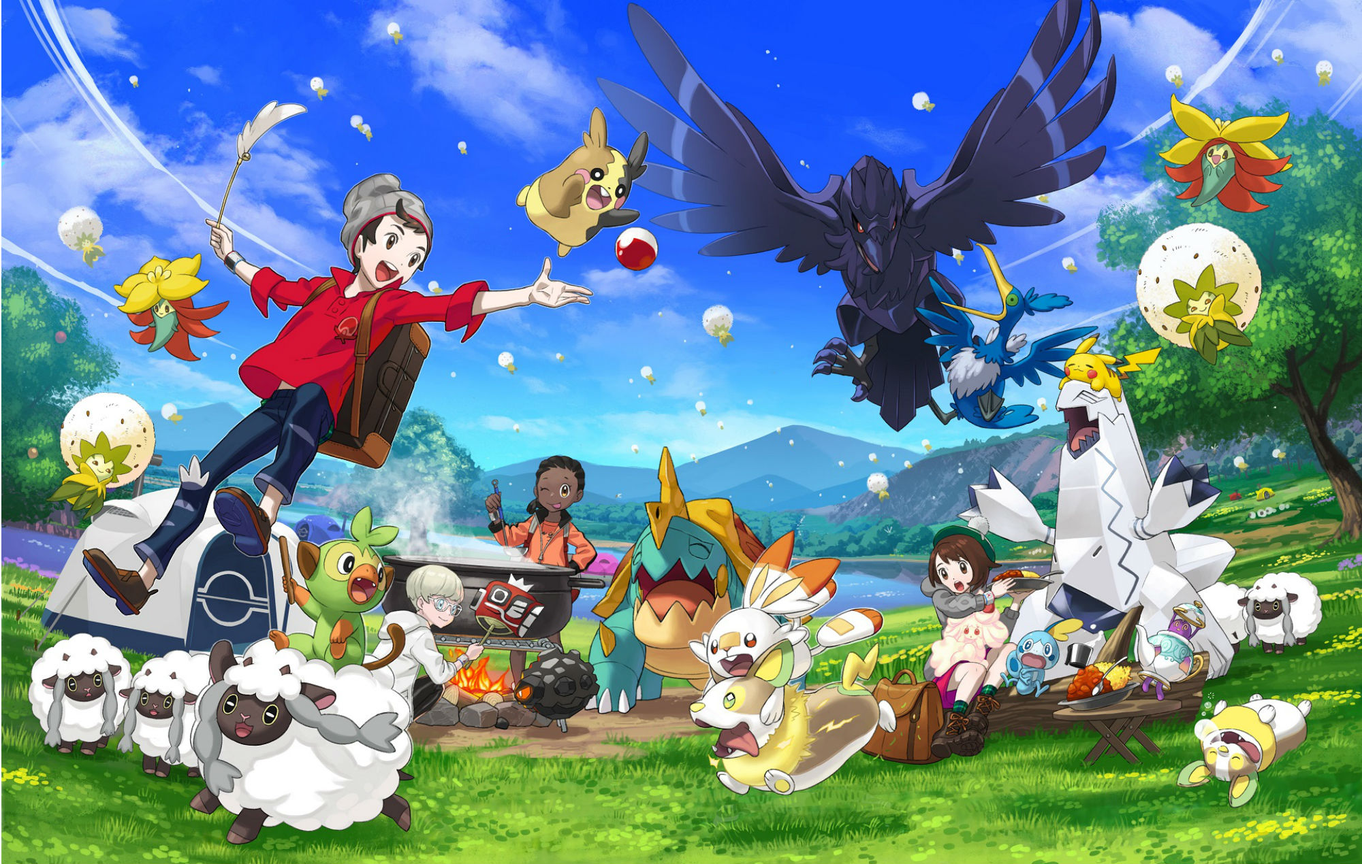
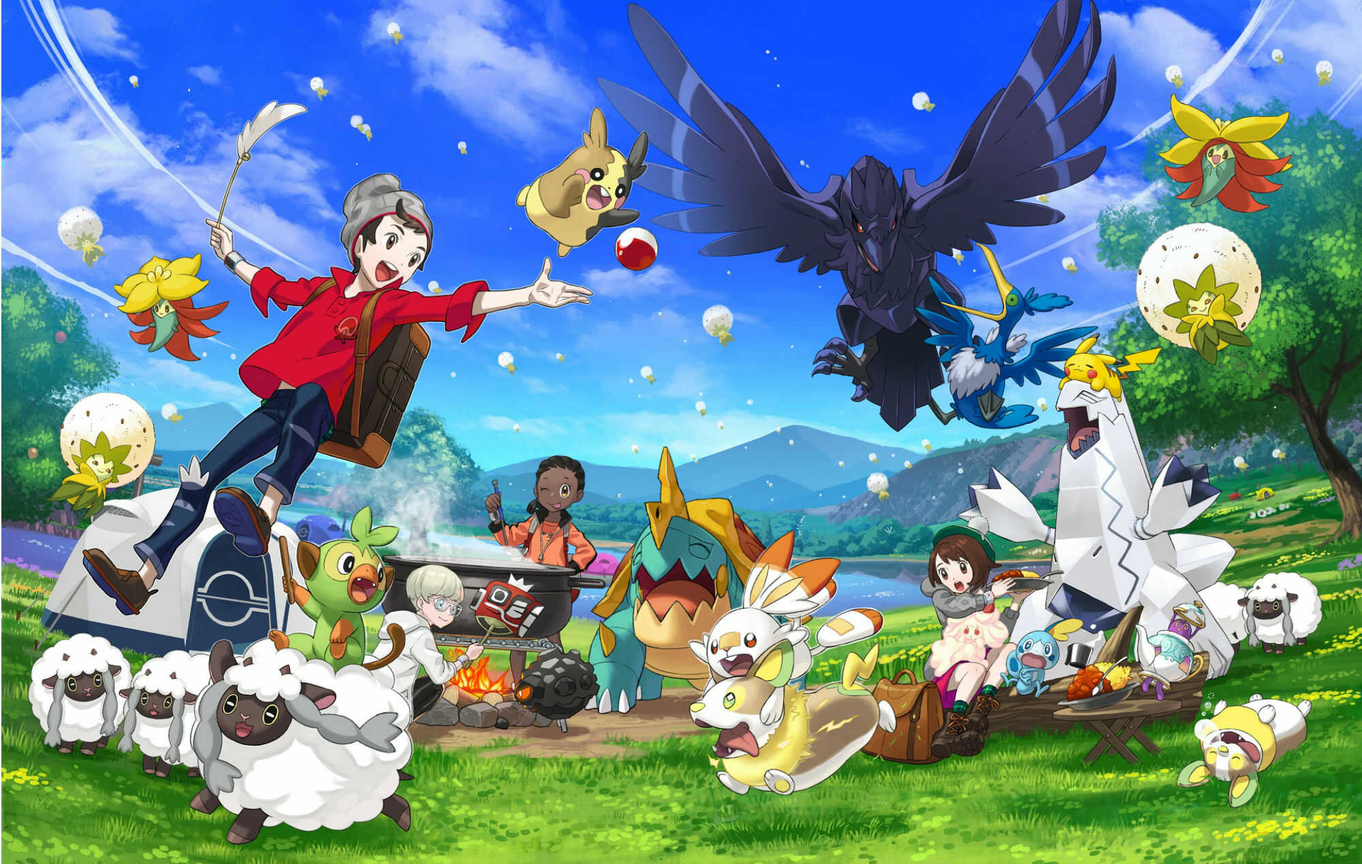
fix: optimized image

Changed region(s): [[0.744, 0.737, 0.775, 0.7677]]

diff --git a/js/main-data.js b/js/main-data.js
@@ -10,7 +10,7 @@ $(document).ready(() => {
         for (let i = start; i < end; i++) {
             await fetch(end_point_pkm.concat(`${i}`))
                 .then((resp) => resp.json())
-                .then((data) => {
+                .then((data) => { 
                     k = ktIDMore(i, start + 11);
                     let tamid = data.id;
                     if (data.id < 10) {
@@ -31,7 +31,7 @@ $(document).ready(() => {
                                             <span>#${tamid}</span>
                                             <span>${data.name.toUpperCase()}</span>
                                             <div class="d-flex justify-content-center">
-                                                <a href="#" class="btn one-item btn-${data.types[0].type.name}">${data.types[0].type.name.toUpperCase()}</a>
+                                                <a class="btn one-item btn-${data.types[0].type.name}">${data.types[0].type.name.toUpperCase()}</a>
                                             </div>
                                             <span>Abilities: <p>${data.abilities[0].ability.name}</p> </span>
                                         </div>
@@ -51,7 +51,7 @@ $(document).ready(() => {
                                             <span>#${tamid}</span>
                                             <span>${data.name.toUpperCase()}</span>
                                             <div class="d-flex justify-content-center">
-                                                <a href="#" class="btn one-item btn-${data.types[0].type.name}">${data.types[0].type.name.toUpperCase()}</a>
+                                                <a class="btn one-item btn-${data.types[0].type.name}">${data.types[0].type.name.toUpperCase()}</a>
                                             </div>
                                             <span>Abilities: <p>${data.abilities[0].ability.name} / ${data.abilities[1].ability.name}</p> </span>
                                         </div>
@@ -73,8 +73,8 @@ $(document).ready(() => {
                                             <span>#${tamid}</span>
                                             <span>${data.name.toUpperCase()}</span>
                                             <div class="d-flex justify-content-around">
-                                                <a href="#" class="btn two-item btn-${data.types[0].type.name}">${data.types[0].type.name.toUpperCase()}</a>
-                                                <a href="#" class="btn two-item btn-${data.types[1].type.name}">${data.types[1].type.name.toUpperCase()}</a>
+                                                <a class="btn two-item btn-${data.types[0].type.name}">${data.types[0].type.name.toUpperCase()}</a>
+                                                <a class="btn two-item btn-${data.types[1].type.name}">${data.types[1].type.name.toUpperCase()}</a>
                                             </div>
                                             <span>Abilities: <p>${data.abilities[0].ability.name}</p> </span>
                                         </div>
@@ -94,8 +94,8 @@ $(document).ready(() => {
                                             <span>#${tamid}</span>
                                             <span>${data.name.toUpperCase()}</span>
                                             <div class="d-flex justify-content-around">
-                                                <a href="#" class="btn two-item btn-${data.types[0].type.name}">${data.types[0].type.name.toUpperCase()}</a>
-                                                <a href="#" class="btn two-item btn-${data.types[1].type.name}">${data.types[1].type.name.toUpperCase()}</a>
+                                                <a class="btn two-item btn-${data.types[0].type.name}">${data.types[0].type.name.toUpperCase()}</a>
+                                                <a class="btn two-item btn-${data.types[1].type.name}">${data.types[1].type.name.toUpperCase()}</a>
                                             </div>
                                             <span>Abilities: <p>${data.abilities[0].ability.name} / ${data.abilities[1].ability.name}</p> </span>
                                         </div>
@@ -313,7 +313,7 @@ $(document).ready(() => {
                         else {
                             for (let n = 0; n < data.types.length; n++) {
                                 count = countType(data.types[n].type.name);
-                                k = ktIDMore(count, 8);
+                                k = ktIDMore(count, 12);
                                 if (data.abilities.length === 1) {
                                     $(`#${data.types[n].type.name.toUpperCase()}>.container>.row`).append(`
                                     <div class="col-lg-3 col-md-4 col-sm-6 col-6" id="more-${k}">

diff --git a/js/main-index.js b/js/main-index.js
@@ -79,7 +79,7 @@ $(document).ready(() => {
                                                 <span>#${tamid}</span>
                                                 <span>${data.name.toUpperCase()}</span>
                                                 <div class="d-flex">
-                                                    <a href="#" class="btn one-item btn-${data.types[0].type.name}">${data.types[0].type.name.toUpperCase()}</a>
+                                                    <a class="btn one-item btn-${data.types[0].type.name}">${data.types[0].type.name.toUpperCase()}</a>
                                                 </div>
                                                 <span>Abilities: <p>${data.abilities[0].ability.name}</p> </span>
                                             </div>
@@ -96,7 +96,7 @@ $(document).ready(() => {
                                                 <span>#${tamid}</span>
                                                 <span>${data.name.toUpperCase()}</span>
                                                 <div class="d-flex">
-                                                    <a href="#" class="btn one-item btn-${data.types[0].type.name}">${data.types[0].type.name.toUpperCase()}</a>
+                                                    <a class="btn one-item btn-${data.types[0].type.name}">${data.types[0].type.name.toUpperCase()}</a>
                                                 </div>
                                                 <span>Abilities: <p>${data.abilities[0].ability.name} / ${data.abilities[1].ability.name}</p> </span>
                                             </div>
@@ -116,8 +116,8 @@ $(document).ready(() => {
                                                 <span>#${tamid}</span>
                                                 <span>${data.name.toUpperCase()}</span>
                                                 <div class="d-flex">
-                                                    <a href="#" class="btn two-item btn-${data.types[0].type.name}">${data.types[0].type.name.toUpperCase()}</a>
-                                                    <a href="#" class="btn two-item btn-${data.types[1].type.name}">${data.types[1].type.name.toUpperCase()}</a>
+                                                    <a class="btn two-item btn-${data.types[0].type.name}">${data.types[0].type.name.toUpperCase()}</a>
+                                                    <a class="btn two-item btn-${data.types[1].type.name}">${data.types[1].type.name.toUpperCase()}</a>
                                                 </div>
                                                 <span>Abilities: <p>${data.abilities[0].ability.name}</p> </span>
                                             </div>
@@ -134,8 +134,8 @@ $(document).ready(() => {
                                                 <span>#${tamid}</span>
                                                 <span>${data.name.toUpperCase()}</span>
                                                 <div class="d-flex">
-                                                    <a href="#" class="btn two-item btn-${data.types[0].type.name}">${data.types[0].type.name.toUpperCase()}</a>
-                                                    <a href="#" class="btn two-item btn-${data.types[1].type.name}">${data.types[1].type.name.toUpperCase()}</a>
+                                                    <a class="btn two-item btn-${data.types[0].type.name}">${data.types[0].type.name.toUpperCase()}</a>
+                                                    <a class="btn two-item btn-${data.types[1].type.name}">${data.types[1].type.name.toUpperCase()}</a>
                                                 </div>
                                                 <span>Abilities: <p>${data.abilities[0].ability.name} / ${data.abilities[1].ability.name}</p> </span>
                                             </div>

diff --git a/data.html b/data.html
@@ -102,12 +102,15 @@
 
         <!-- MAIN -->
         <main>
-            <h2>POKEDEX</h2>
             <!-- Pokedex -->
             <div class="container pkdex">
                 <div class="d-flex justify-content-around">
-                    <h2 id="top">POKEDEX</h2>
+                    <a href="#"><h2 id="top">POKEDEX</h2></a>
+                    <a href="#atk"><h2 id="top">ATTACKDEX</h2></a>
+                    <a href="#item"><h2 id="top">ITEMDEX</h2></a>
+                </div>
 
+                <div class="d-flex justify-content-around ">
                     <form class="d-flex search-btn">
                         <input class="form-control me-2" type="search" placeholder="Search" aria-label="Search">
                         <button class="btn btn-success" type="submit" onclick="opengen(event, 'SEARCH')" id="block-btn">Search</button>
@@ -115,8 +118,7 @@
                 </div>
 
                 <div class="tab-gen">
-                    <button class="tablinks active-dex active-dex" onclick="opengen(event, 'ALL')" 
-                        id="defaultOpen"><a href="#top">ALL</a></button>
+                    <button class="tablinks active-dex active-dex" onclick="opengen(event, 'ALL')" id="defaultOpen"><a href="#top">ALL</a></button>
                 </div>
 
                 <div class="tab-type">
@@ -145,6 +147,10 @@
                         <button onclick="moreFunc('SEARCH')" id="more-btn">More <span class="down_arrow"></span></button>
                     </div>
                 </div>
+            </div>
+
+            <!-- Attack dex -->
+            <div class="container" id="atk">
             </div>
         </main>
 

diff --git a/css/index.css b/css/index.css
@@ -236,6 +236,10 @@ main {
 .card-item .card-body .two-item {
   margin-left: 16px;
 }
+.card-item .card-body a:hover {
+  color: #fff;
+  cursor: auto;
+}
 
 .slick-center .card-item {
   opacity: 1;
@@ -489,16 +493,16 @@ footer .bot-ft span {
 
 h2 {
   color: #ffaa00;
-  padding: 30px 100px;
 }
 
 /* POKEDEX */
 .pkdex {
   padding-bottom: 180px;
+  padding-top: 100px;
 }
 .pkdex .search-btn {
-  margin-top: 30px;
-  width: 35%;
+  margin: 30px 0;
+  width: 50%;
   height: 40px;
 }
 .pkdex .search-btn button {
@@ -567,6 +571,10 @@ h2 {
 }
 .card-pkm .card-item-data .card-body span p {
   text-align: center;
+}
+.card-pkm .card-item-data .card-body a:hover {
+  color: #fff;
+  cursor: auto;
 }
 
 /* ATTACK DEX */

diff --git a/scss/_main-data.scss b/scss/_main-data.scss
@@ -1,17 +1,17 @@
 
 h2 {
     color: $data;
-    padding: 30px 100px;
+    // padding: 30px 100px;
 }
 
 /* POKEDEX */
 .pkdex {
     padding-bottom: 180px;
+    padding-top: 100px;
 
     .search-btn {
-        // margin-bottom: 20px;
-        margin-top: 30px;
-        width: 35%;
+        margin: 30px 0;
+        width: 50%;
         height: 40px;
 
         button {
@@ -94,6 +94,13 @@ h2 {
             span {
                 p{
                     text-align: center;
+                }
+            }
+
+            a{
+                &:hover {
+                    color: $white;
+                    cursor: auto;
                 }
             }
         }

diff --git a/scss/_main-index.scss b/scss/_main-index.scss
@@ -47,6 +47,13 @@ main {
         .two-item {
             margin-left: 16px;
         }
+
+        a{
+            &:hover {
+                color: $white;
+                cursor: auto;
+            }
+        }
     }
 }
 
